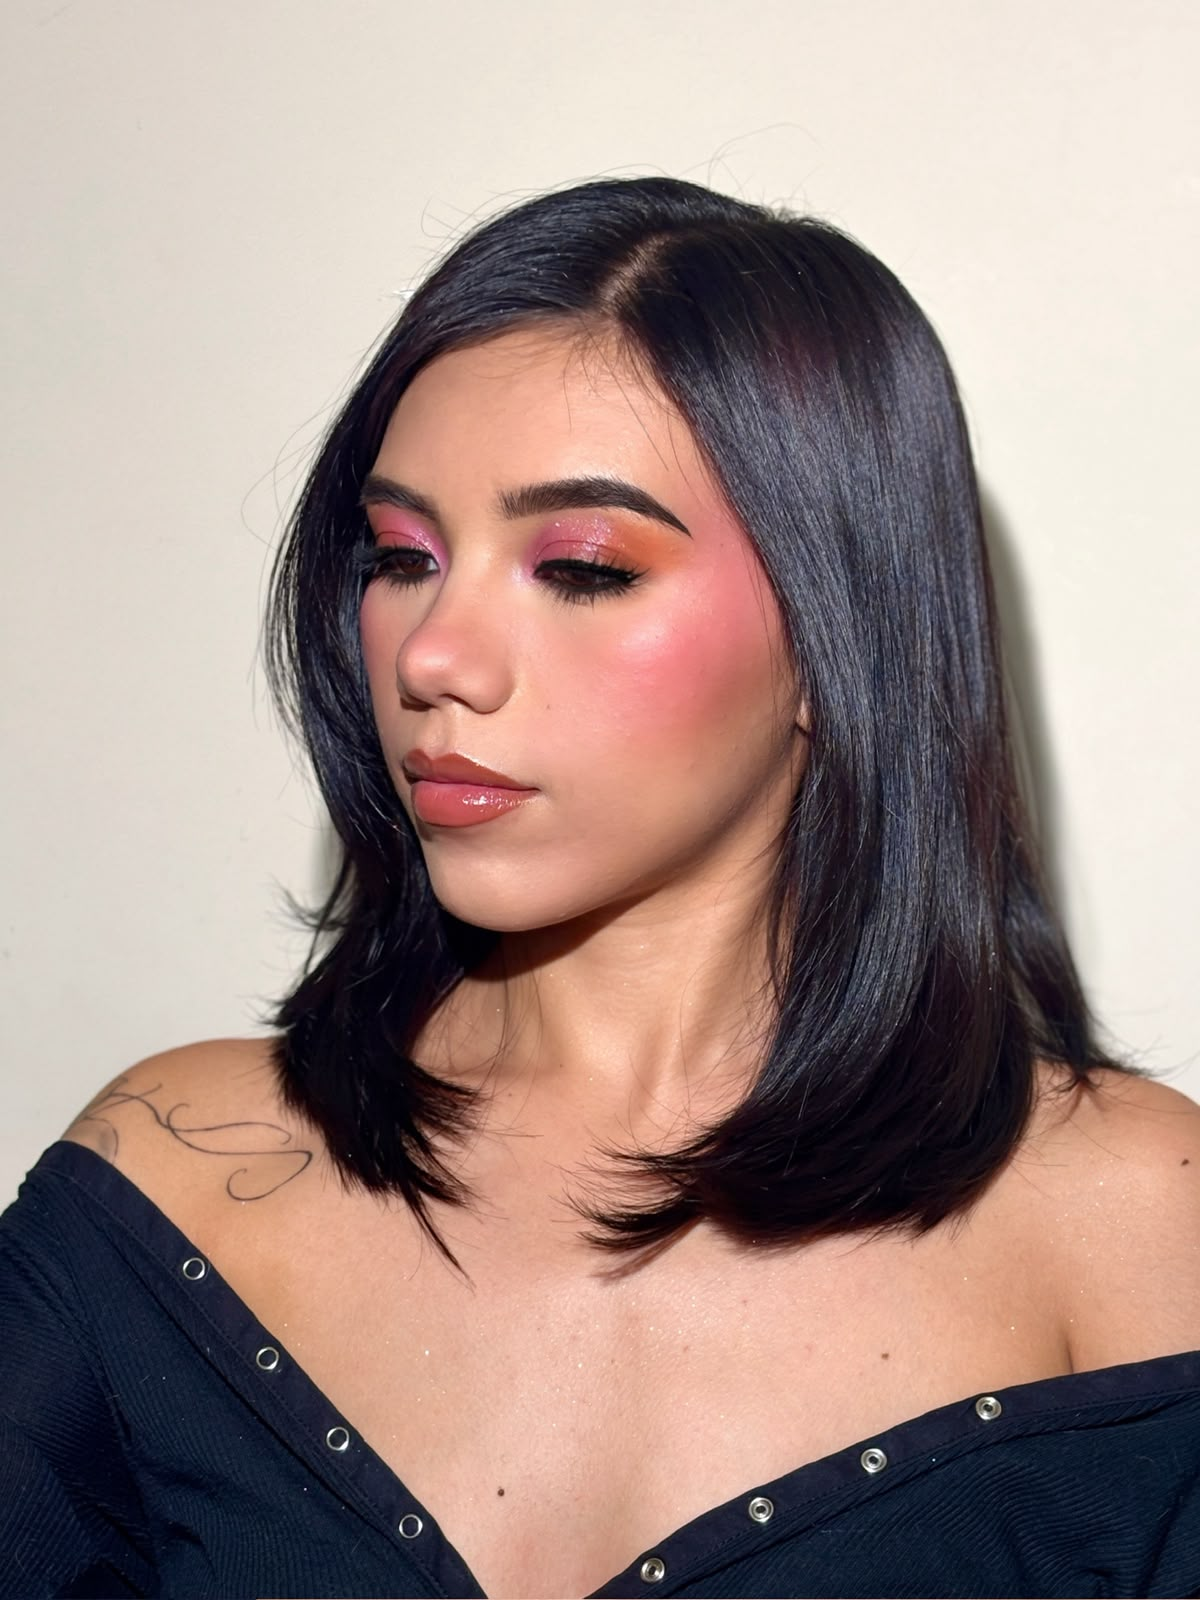
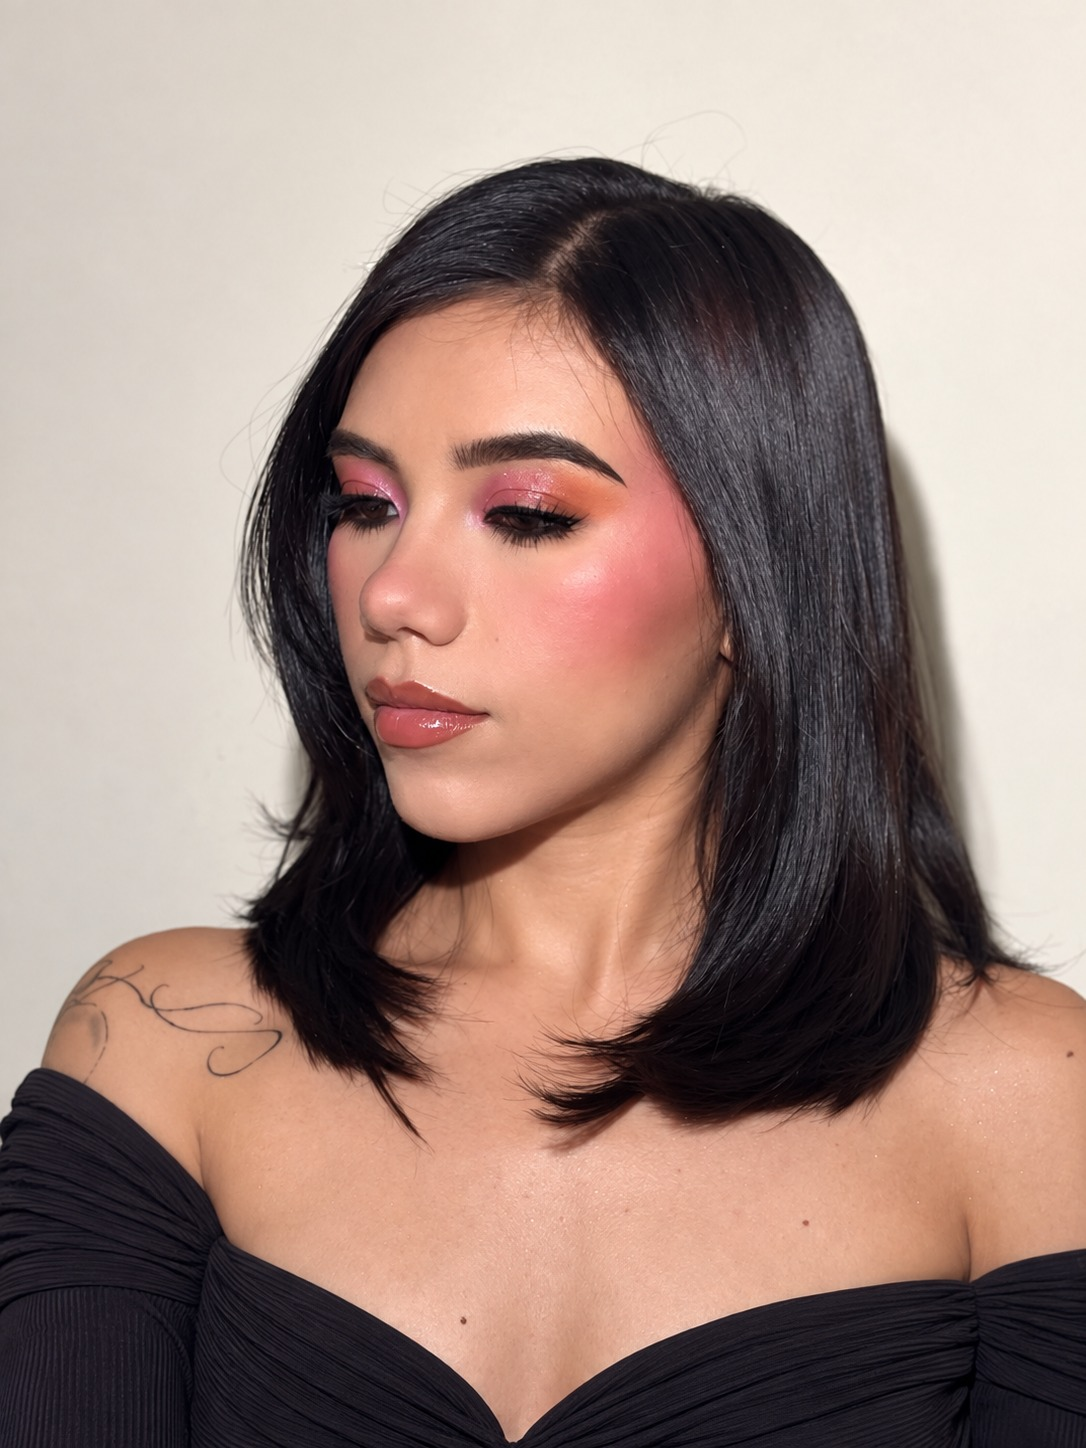
Actualiza tres fotos del carrusel
Reemplaza trabajo-02, 06 y 09 con tomas de mejor encuadre e iluminacion.
Se normaliza la extension a .jpg y se ajustan las medidas declaradas.

diff --git a/index.html b/index.html
@@ -122,7 +122,7 @@ c29 -20 77 -54 108 -77 31 -23 62 -38 68 -35 28 18 -4 237 -54 367 -65 169
                     <img class="slider-single-image" src="Carrusel/trabajo-01.jpg" width="1086" height="1448" loading="eager" decoding="async" alt="Maquillaje editorial en tonos cobre con glitter en el párpado y labios nude glossy, sobre melena bob con fleco.">
                 </div>
                 <div class="slider-single">
-                    <img class="slider-single-image" src="Carrusel/trabajo-02.jpg" width="1200" height="1600" loading="eager" decoding="async" alt="Maquillaje en tonos rosa y coral con rubor difuminado y delineado negro, sobre cabello lacio oscuro.">
+                    <img class="slider-single-image" src="Carrusel/trabajo-02.jpg" width="1086" height="1448" loading="eager" decoding="async" alt="Maquillaje en tonos rosa y coral con rubor difuminado y delineado negro, sobre cabello lacio oscuro.">
                 </div>
                 <div class="slider-single">
                     <img class="slider-single-image" src="Carrusel/trabajo-03.jpg" width="1200" height="1600" loading="lazy" decoding="async" alt="Novia con tiara de cristales, coleta ondulada y labial vino glossy.">
@@ -134,7 +134,7 @@ c29 -20 77 -54 108 -77 31 -23 62 -38 68 -35 28 18 -4 237 -54 367 -65 169
                     <img class="slider-single-image" src="Carrusel/trabajo-05.jpg" width="1200" height="1600" loading="lazy" decoding="async" alt="Maquillaje luminoso en tonos tierra con ondas largas y labios terracota.">
                 </div>
                 <div class="slider-single">
-                    <img class="slider-single-image" src="Carrusel/trabajo-06.jpg" width="1200" height="1600" loading="lazy" decoding="async" alt="Invitada con recogido lateral pulido, sombras cobrizas y labial vino.">
+                    <img class="slider-single-image" src="Carrusel/trabajo-06.jpg" width="1086" height="1448" loading="lazy" decoding="async" alt="Invitada con recogido lateral pulido, sombras cobrizas y labial vino.">
                 </div>
                 <div class="slider-single">
                     <img class="slider-single-image" src="Carrusel/trabajo-07.jpg" width="1168" height="1600" loading="lazy" decoding="async" alt="Delineado gráfico en plata con sombras durazno y ondas largas al costado.">
@@ -143,7 +143,7 @@ c29 -20 77 -54 108 -77 31 -23 62 -38 68 -35 28 18 -4 237 -54 367 -65 169
                     <img class="slider-single-image" src="Carrusel/trabajo-08.jpg" width="1200" height="1600" loading="lazy" decoding="async" alt="Media coleta pulida con ondas, piel luminosa y labios rosa palo.">
                 </div>
                 <div class="slider-single">
-                    <img class="slider-single-image" src="Carrusel/trabajo-09.jpg" width="1200" height="1600" loading="lazy" decoding="async" alt="Labial rojo clásico con sombras neutras y ondas largas oscuras.">
+                    <img class="slider-single-image" src="Carrusel/trabajo-09.jpg" width="1086" height="1448" loading="lazy" decoding="async" alt="Labial rojo clásico con sombras neutras y ondas largas oscuras.">
                 </div>
                 <div class="slider-single">
                     <img class="slider-single-image" src="Carrusel/trabajo-10.jpg" width="1200" height="1600" loading="lazy" decoding="async" alt="Peinado semirrecogido con tocado de perlas y maquillaje natural glossy.">
@@ -253,7 +253,7 @@ c29 -20 77 -54 108 -77 31 -23 62 -38 68 -35 28 18 -4 237 -54 367 -65 169
 
             <article class="card">
                 <div class="card-media">
-                    <img src="Carrusel/trabajo-06.jpg" width="1200" height="1600" loading="lazy" decoding="async" alt="Invitada con recogido lateral pulido, sombras cobrizas y labial vino.">
+                    <img src="Carrusel/trabajo-06.jpg" width="1086" height="1448" loading="lazy" decoding="async" alt="Invitada con recogido lateral pulido, sombras cobrizas y labial vino.">
                 </div>
                 <div class="card-body">
                     <p class="card-kicker">Paquete</p>
